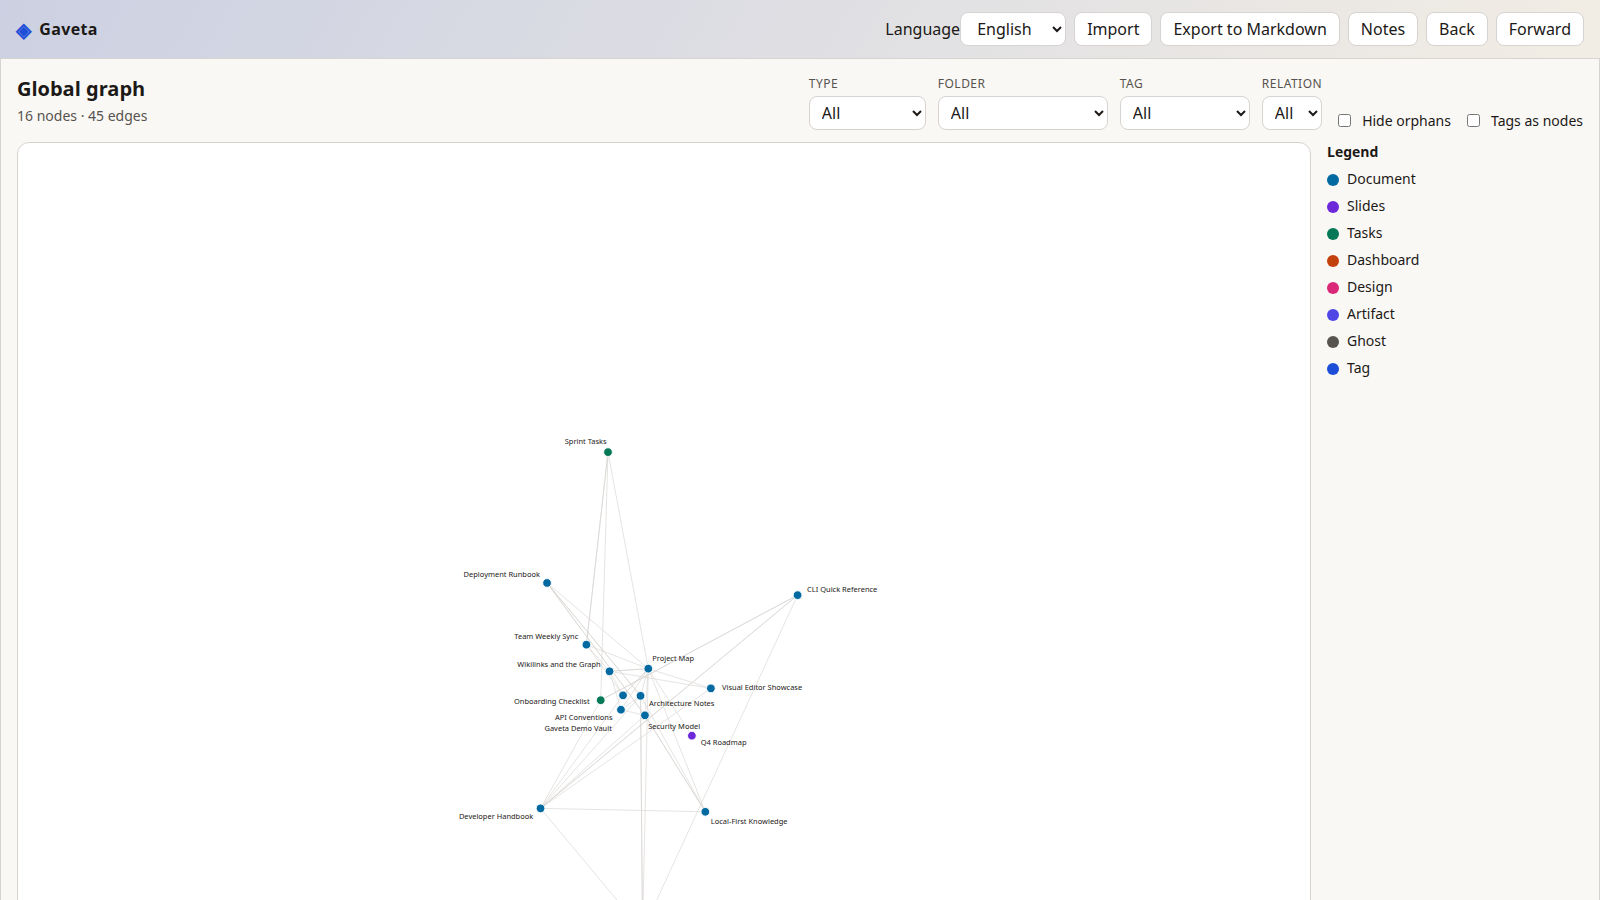
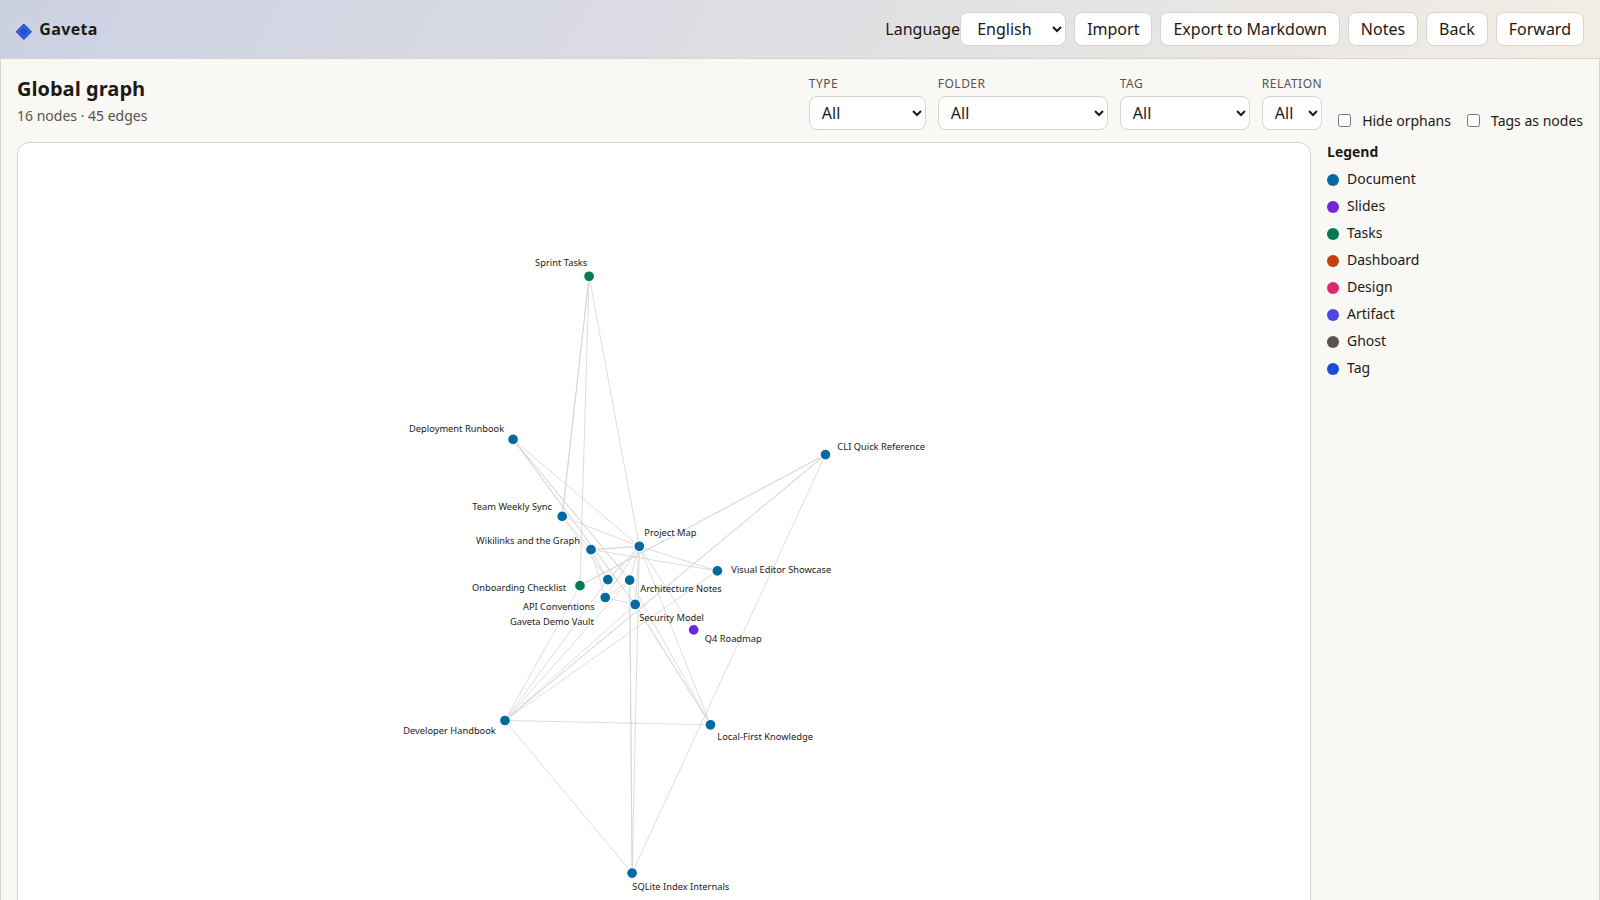
fix(screenshots): center global graph at ~75% canvas fill
Raise graph fill from 0.58 to 0.75, include edges in bounds, and
center after label defray so nodes and labels stay inside the frame.
Add pnpm screenshots:graph for graph-only recapture.

diff --git a/scripts/capture-demo-graph.ts b/scripts/capture-demo-graph.ts
@@ -37,6 +37,7 @@ async function readGraphMetrics(page: Page): Promise<GraphMetrics | null> {
     const targets = [
       ...document.querySelectorAll('.graph-view__node'),
       ...document.querySelectorAll('.graph-view__label'),
+      ...document.querySelectorAll('.graph-view__edge line'),
     ];
     if (targets.length === 0) {
       return null;
@@ -158,9 +159,31 @@ export async function fitGlobalGraphView(page: Page, fillRatio = 0.8): Promise<v
   }
 }
 
-/** Zoom out and re-center until nodes and labels sit inside the canvas with padding. */
-export async function ensureGraphFullyVisible(page: Page, padding = 18): Promise<void> {
-  for (let attempt = 0; attempt < 10; attempt += 1) {
+/** Pan so the node/label/edge bounding box is centered in the canvas. */
+export async function centerGraphInCanvas(page: Page): Promise<void> {
+  for (let attempt = 0; attempt < 6; attempt += 1) {
+    const metrics = await readGraphMetrics(page);
+    if (metrics === null) {
+      return;
+    }
+    const canvasCx = metrics.canvas.left + metrics.canvas.width / 2;
+    const canvasCy = metrics.canvas.top + metrics.canvas.height / 2;
+    const graphCx = (metrics.minX + metrics.maxX) / 2;
+    const graphCy = (metrics.minY + metrics.maxY) / 2;
+    const dx = canvasCx - graphCx;
+    const dy = canvasCy - graphCy;
+    if (Math.hypot(dx, dy) < 3) {
+      return;
+    }
+    await panCanvas(page, canvasCx, canvasCy, canvasCx + dx, canvasCy + dy);
+    await page.waitForTimeout(160);
+  }
+}
+
+/** Zoom out and re-center until nodes, labels, and edges sit inside the canvas with padding. */
+export async function ensureGraphFullyVisible(page: Page, padding = 22): Promise<void> {
+  for (let attempt = 0; attempt < 12; attempt += 1) {
+    await centerGraphInCanvas(page);
     const metrics = await readGraphMetrics(page);
     if (metrics === null) {
       return;
@@ -172,18 +195,26 @@ export async function ensureGraphFullyVisible(page: Page, padding = 18): Promise
     const canvasCy = metrics.canvas.top + metrics.canvas.height / 2;
     await wheelZoomCanvas(page, canvasCx, canvasCy, false, 2);
     await page.waitForTimeout(180);
-    const after = await readGraphMetrics(page);
-    if (after === null) {
-      return;
-    }
-    const nextCx = (after.minX + after.maxX) / 2;
-    const nextCy = (after.minY + after.maxY) / 2;
-    const dx = canvasCx - nextCx;
-    const dy = canvasCy - nextCy;
-    if (Math.hypot(dx, dy) > 2) {
-      await panCanvas(page, canvasCx, canvasCy, canvasCx + dx, canvasCy + dy);
-      await page.waitForTimeout(150);
-    }
+  }
+}
+
+/** Fit, spread labels, center, and keep the cluster inside the canvas for screenshots. */
+export async function prepareGlobalGraphScreenshot(page: Page, fillRatio: number): Promise<void> {
+  await fitGlobalGraphView(page, fillRatio);
+  await defrayGraphLabels(page);
+  await centerGraphInCanvas(page);
+  let overlapPairs = await countOverlappingGraphLabels(page);
+  if (overlapPairs > 0) {
+    await defrayGraphLabels(page);
+    await centerGraphInCanvas(page);
+    overlapPairs = await countOverlappingGraphLabels(page);
+  }
+  await ensureGraphFullyVisible(page);
+  await centerGraphInCanvas(page);
+  if (overlapPairs > 0) {
+    await defrayGraphLabels(page);
+    await ensureGraphFullyVisible(page);
+    await centerGraphInCanvas(page);
   }
 }
 

diff --git a/scripts/capture-demo-screenshots.ts b/scripts/capture-demo-screenshots.ts
@@ -6,10 +6,7 @@ import { chromium } from 'playwright';
 import { DEMO_VAULT_ABS } from './bootstrap-demo-vault.ts';
 import { parseCaptureLang, playwrightLocale, type CaptureLang } from './capture-demo-locale.ts';
 import {
-  countOverlappingGraphLabels,
-  defrayGraphLabels,
-  ensureGraphFullyVisible,
-  fitGlobalGraphView,
+  prepareGlobalGraphScreenshot,
   scrollApplicationToTop,
   waitForGlobalGraphReady,
 } from './capture-demo-graph.ts';
@@ -19,8 +16,8 @@ const GAVETA_BIN = join(REPO_ROOT, 'packages/cli/bin/gaveta.js');
 const ASSETS_DIR = join(REPO_ROOT, 'docs', 'assets');
 const ARTIFACTS_DIR = '/opt/cursor/artifacts';
 const VIEWPORT = { width: 1600, height: 900 };
-/** ~70% of the prior ~0.82 fill target — more margin around the cluster. */
-const GRAPH_FILL_RATIO = 0.58;
+/** Target share of the graph canvas filled by the cluster (between prior 0.82 and 0.58). */
+const GRAPH_FILL_RATIO = 0.75;
 
 const SCREENSHOTS = [
   'screenshot-graph.png',
@@ -73,7 +70,11 @@ async function startServe(
   });
 }
 
-async function captureScreenshots(lang: CaptureLang): Promise<void> {
+function parseGraphOnly(argv: readonly string[]): boolean {
+  return argv.includes('--graph-only');
+}
+
+async function captureScreenshots(lang: CaptureLang, graphOnly: boolean): Promise<void> {
   void readNoteId('developer-handbook.html');
   void readNoteId('visual-editor-showcase.html');
   const locale = playwrightLocale(lang);
@@ -133,22 +134,24 @@ async function captureScreenshots(lang: CaptureLang): Promise<void> {
 
   await page.goto(`${origin}/grafo`, { waitUntil: 'networkidle' });
   await waitForGlobalGraphReady(page);
-  await fitGlobalGraphView(page, GRAPH_FILL_RATIO);
-  await defrayGraphLabels(page);
-  let overlapPairs = await countOverlappingGraphLabels(page);
-  if (overlapPairs > 0) {
-    await fitGlobalGraphView(page, GRAPH_FILL_RATIO * 0.94);
-    await defrayGraphLabels(page);
-    overlapPairs = await countOverlappingGraphLabels(page);
-  }
-  await ensureGraphFullyVisible(page);
-  if (overlapPairs > 0) {
-    await fitGlobalGraphView(page, GRAPH_FILL_RATIO * 0.9);
-    await defrayGraphLabels(page);
-    await ensureGraphFullyVisible(page);
-  }
+  await prepareGlobalGraphScreenshot(page, GRAPH_FILL_RATIO);
   await scrollApplicationToTop(page);
   await page.screenshot({ path: join(ASSETS_DIR, 'screenshot-graph.png') });
+
+  if (graphOnly) {
+    writeFileSync(
+      join(ARTIFACTS_DIR, 'screenshot-graph.png'),
+      readFileSync(join(ASSETS_DIR, 'screenshot-graph.png')),
+    );
+    await context.close();
+    await browser.close();
+    child.kill('SIGTERM');
+    if (pageErrors.length > 0) {
+      throw new Error(`page errors during capture:\n${pageErrors.join('\n')}`);
+    }
+    console.info(`Graph screenshot (${lang}) written to ${ASSETS_DIR} and ${ARTIFACTS_DIR}`);
+    return;
+  }
 
   await page.goto(url, { waitUntil: 'networkidle' });
   await page.getByTestId('explorer-note-developer-handbook.html').click();
@@ -213,5 +216,6 @@ async function captureScreenshots(lang: CaptureLang): Promise<void> {
 const isMain = process.argv[1]?.includes('capture-demo-screenshots') ?? false;
 if (isMain) {
   const lang = parseCaptureLang(process.argv);
-  await captureScreenshots(lang);
+  const graphOnly = parseGraphOnly(process.argv);
+  await captureScreenshots(lang, graphOnly);
 }
